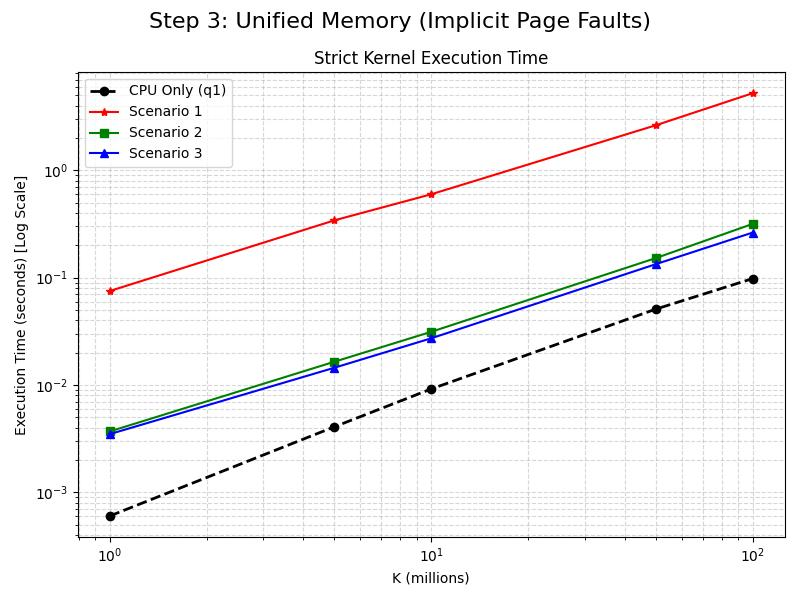
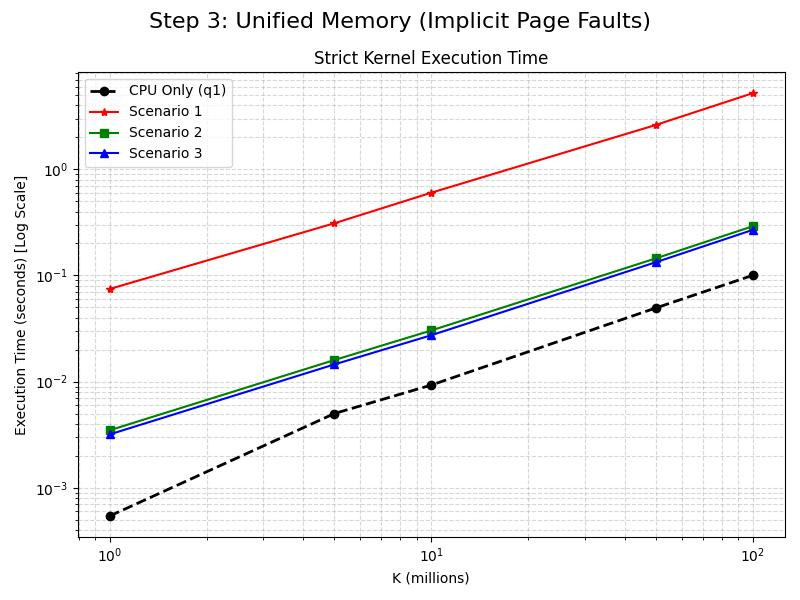
nit

Changed region(s): [[0.0312, 0.21, 0.9688, 0.9], [0.8438, 0.18, 0.875, 0.21]]

diff --git a/Part-B/q4.py b/Part-B/q4.py
@@ -42,15 +42,15 @@ def collect_data():
     # 2. Run CPU only (q1)
     for k in K_VALUES:
         out = run_command(["./q1", str(k)])
-        t = extract_time(out, r"Execution time for K=\d+ million:\s+([0-9.]+)\s+seconds")
+        t = extract_time(out, r"Execution time for K=\d+ million:\s+([0-9.eE+-]+)\s+seconds")
         cpu_times.append(t if t else 0.0)
     
     # 3. Run Explicit Memory (q2)
     for scenario in SCENARIOS:
         for k in K_VALUES:
             out = run_command(["./q2", str(k), str(scenario)])
-            kernel_t = extract_time(out, r"STRICT Kernel Execution Time:\s+([0-9.]+)\s+seconds")
-            total_t = extract_time(out, r"TOTAL Round-Trip Time \(Memcpy \+ Kernel \+ Memcpy\):\s+([0-9.]+)\s+seconds")
+            kernel_t = extract_time(out, r"STRICT Kernel Execution Time:\s+([0-9.eE+-]+)\s+seconds")
+            total_t = extract_time(out, r"TOTAL Round-Trip Time \(Memcpy \+ Kernel \+ Memcpy\):\s+([0-9.eE+-]+)\s+seconds")
             q2_kernel_times[scenario].append(kernel_t if kernel_t else 0.0)
             q2_total_times[scenario].append(total_t if total_t else 0.0)
 
@@ -58,8 +58,8 @@ def collect_data():
     for scenario in SCENARIOS:
         for k in K_VALUES:
             out = run_command(["./q3", str(k), str(scenario)])
-            kernel_t = extract_time(out, r"Kernel execution \(INCLUDES Host-to-Device Page Fault overhead\):\s+([0-9.]+)\s+seconds")
-            total_t = extract_time(out, r"TOTAL Round-Trip Time \(H2D Faults \+ Kernel \+ D2H Faults\):\s+([0-9.]+)\s+seconds")
+            kernel_t = extract_time(out, r"Kernel execution \(INCLUDES Host-to-Device Page Fault overhead\):\s+([0-9.eE+-]+)\s+seconds")
+            total_t = extract_time(out, r"TOTAL Round-Trip Time \(H2D Faults \+ Kernel \+ D2H Faults\):\s+([0-9.eE+-]+)\s+seconds")
             q3_kernel_times[scenario].append(kernel_t if kernel_t else 0.0)
             q3_total_times[scenario].append(total_t if total_t else 0.0)
 
